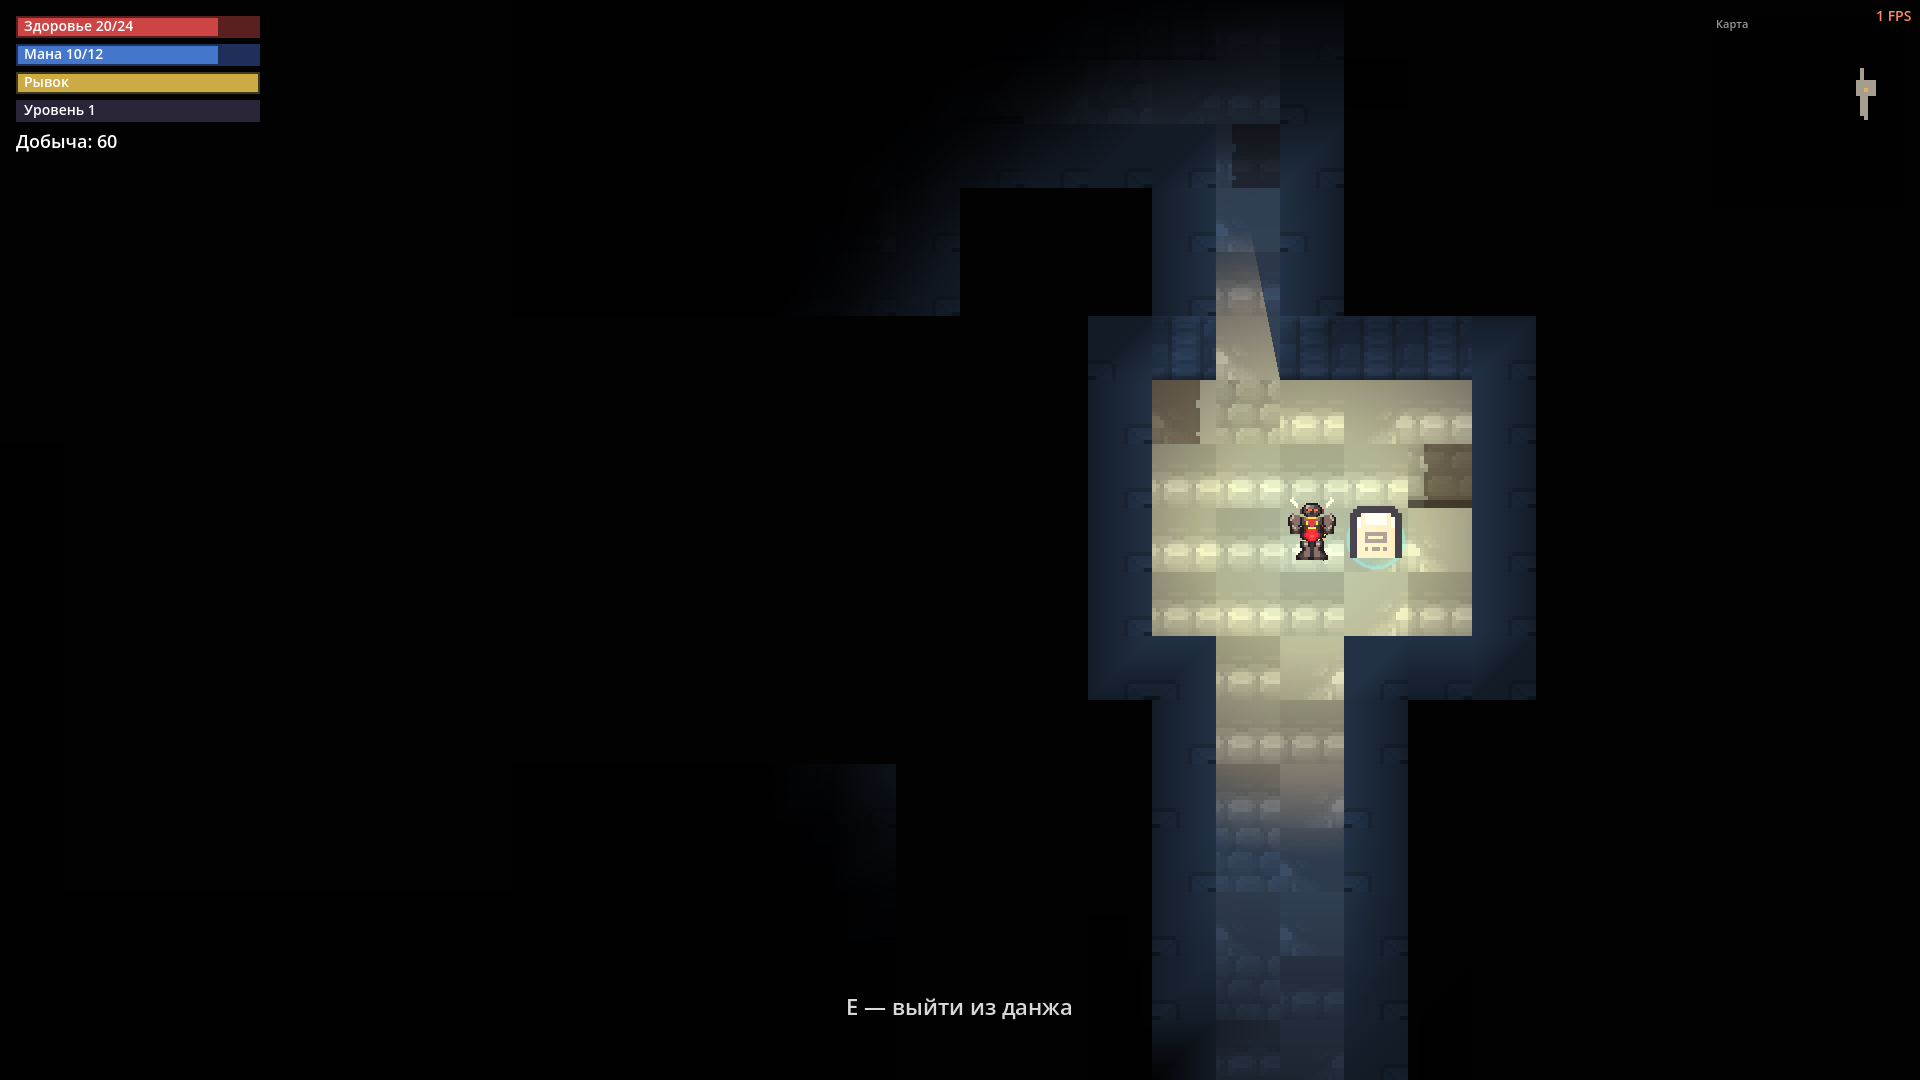
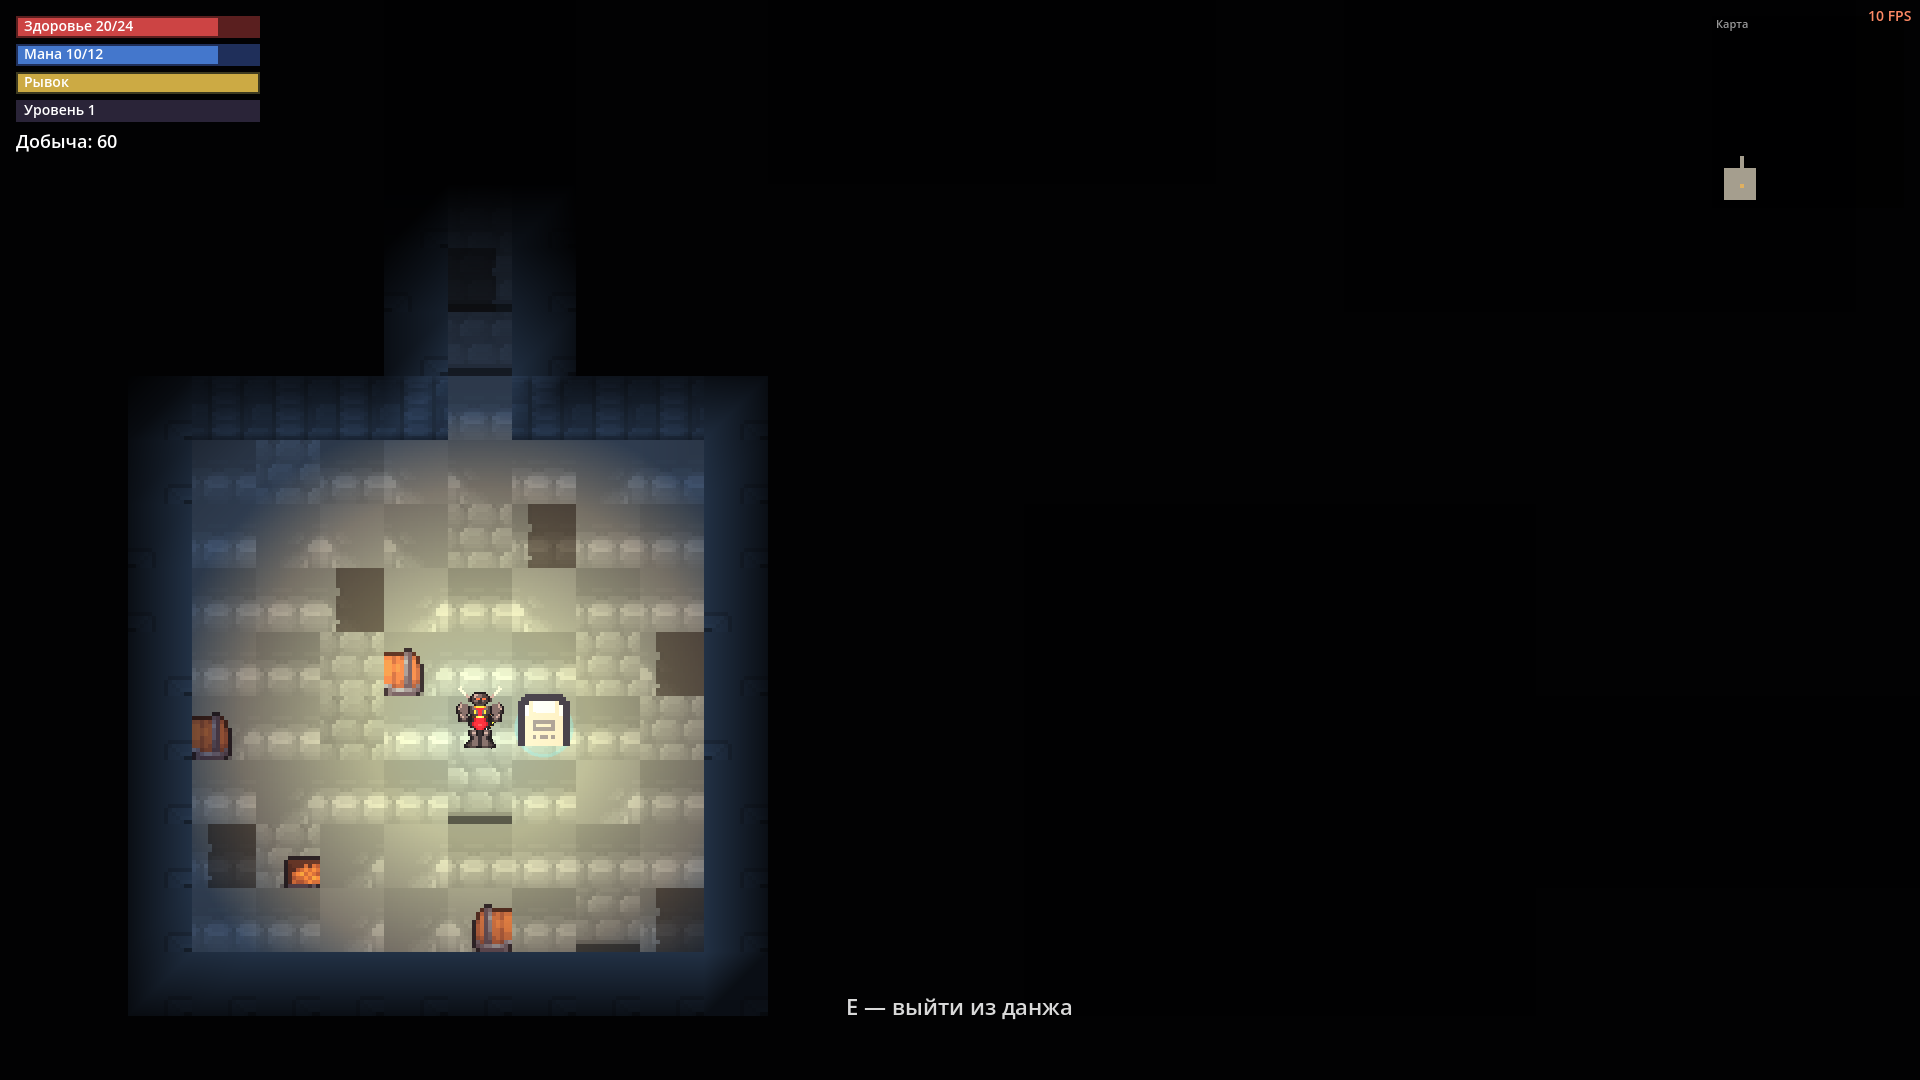
v1.42.2: правки приёмки этапа 4 — глухой туман, вода под героем, чистый пол, свет огненных монстров
Фидбек заказчика: большой радиус просвечивает уровень данжа (справа
видно сквозь тень); текстуры воды должны быть под персонажем; под
сундуком текстура бочки (или предмет, или пол); факелы делают вид что
горят, но света не дают.

1. Туман войны: «память» только для изученного ПОЛА и почти глухая
   (0.45 → 0.72); стены вне поля зрения — НЕПРОЗРАЧНЫЕ (сквозь тень
   соседние комнаты не видно); радиус расплывания 9 → 8 тайлов.
2. Слой света данжа (вода/пламя) и рунные круги перенесены ДО героя
   в порядке сцены — рисуются под персонажем, не поверх.
3. «Бочка под сундуком» — тайл пола пака (6,1) с запечённым пропсом;
   полы перерезаны из чистой кладки (12,1)/(5,1)/(9,2).
4. Огненные монстры (cinder, висп) получили настоящий свет
   (enemies.json → light: color/radius/energy, тени от стен) —
   горящий спрайт больше не «фальшивит».

Тесты: +проверки (память только пол, стены глухие, свет монстров в
конфиге и на узле врага), полный прогон зелёный; headless dungeon —
0 SCRIPT ERROR. Скриншоты: shot_dungeon2_demon.png (свет через проём
обрывается стеной), bandit (факелы, чистый пол), crystal.

Следующий шаг: повторная приёмка этапа 4; далее — многоуровневость
данжей (№113–115) отдельным проходом.

diff --git a/tools/make_dungeon2.py b/tools/make_dungeon2.py
@@ -148,10 +148,12 @@ def cut_pack():
         saved.append("props/" + name)
 
     # пол: плиты пака (тёмные у пака -> нормализация в светлый серый;
-    # финальный тон даст тинт биома). Три характера: живой/плоский/плоский-2
-    put("d2_floor_a", normalize_gray(tile(wf, 6, 1), 0.80))
+    # финальный тон даст тинт биома). v1.42.2: тайлы БЕЗ запечённых
+    # пропсов — в (6,1) пака лежит «бочка/скелет», её принимали за
+    # предмет под сундуком. Только чистая кладка.
+    put("d2_floor_a", normalize_gray(tile(wf, 12, 1), 0.80))
     put("d2_floor_b", normalize_gray(tile(wf, 5, 1), 0.80))
-    put("d2_floor_c", normalize_gray(tile(wf, 6, 2), 0.80))
+    put("d2_floor_c", normalize_gray(tile(wf, 9, 2), 0.80))
     put("d2_floor_crack", normalize_gray(tile(wf, 6, 3), 0.74))
 
     # стены: верх — блоки с кладкой; грань — кирпич пака + кромка/низ свои

diff --git a/CHANGELOG_E2.md b/CHANGELOG_E2.md
@@ -1201,6 +1201,41 @@ README.md.**
 нижнем углу города) и посмотреть; затем этап 2 «Глобальная карта v2»
 программы «Мир v2» — НОВЫЙ чат.**
 
+## Правки приёмки v1.42.2 (2026-11-02, тем же чатом) — туман глухой, вода под героем, чистый пол, светящиеся монстры
+
+Фидбек заказчика по скриншоту: «большой радиус от персонажа просвечивает
+уровень данжа (справа видно сквозь тень); текстуры воды должны быть под
+персонажем; под сундуком текстура бочки — или предмет или пол; факелы
+делают вид что горят, но света нет». Сделано:
+
+1. **Сквозь тень больше не видно**: «память» тумана войны — только для
+   изученного ПОЛА и почти глухая (0.45 → 0.72); стены вне поля зрения —
+   НЕПРОЗРАЧНАЯ тьма (раньше стены с памятью просвечивали соседние
+   комнаты). Радиус расплывания 9 → 8 тайлов — круг героя теснее.
+2. **Вода/пламя/руны — ПОД героем**: слой света данжа перенесён до героя
+   в порядке сцены (z без подъёма) — вода рисуется под ногами, а не
+   поверх персонажа; рунные круги — тоже под героем.
+3. **«Бочка под сундуком» — тайл пола пака с запечённым пропсом**:
+   тайл (6,1) листа стен/полов пака содержит нарисованную «бочку/
+   скелет». Полы перерезаны из чистой кладки (12,1)/(5,1)/(9,2) —
+   под сундуком теперь просто пол.
+4. **«Факелы горят, но света нет»** — на скриншоте это были огненные
+   монстры (cinder/висп): горящий спрайт без света выглядел фальшиво.
+   Монстрам с огнём/магией добавлен свет (enemies.json → "light":
+   color/radius/energy) — cinder и висп теперь реально подсвечивают
+   пространство, тени от стен включены.
+
+Тесты: +проверки (память только пол, стены глухие, свет монстров в
+конфиге и на узле врага); полный прогон зелёный, headless dungeon —
+0 SCRIPT ERROR. Скриншоты обновлены: shot_dungeon2_demon.png (свет через
+проём упирается в стены, за ними тьма), shot_dungeon2_bandit.png
+(факелы, чистый пол), shot_dungeon2_crystal.png.
+
+**Файлы: scripts/dungeon_fog.gd, dungeon.gd, dungeon_lights.gd,
+enemy.gd, data/enemies.json, tools/make_dungeon2.py (+перегенерация
+d2_floor_*), tests/test_dungeon2.gd, tests/run_all.gd,
+tools/shot_dungeon2_*.png, data/version.json, README.md.**
+
 ## Правки приёмки v1.42.1 (2026-11-02, тем же чатом) — свет упирается в стены, факелы гуманоидам, лужи-вода
 
 Фидбек заказчика по скриншоту: «синие квадраты, герой проходит сквозь;

diff --git a/PLAN.md b/PLAN.md
@@ -685,9 +685,11 @@ data/city.json (colors.water_tune). Скриншоты: tools/shot_water.png.
    Тюнинг — data/world.json → npc_city. Тесты: tests/test_npc_cities.gd
    (+27 проверок) + tests/smoke_npc.gd (гостевой цикл).
 4. **Данжи v2** — СВЕТ/МАТЕРИАЛЫ ВЫПОЛНЕНЫ (v1.42.0, 2026-11-02) + ПРАВКИ
-   ПРИЁМКИ v1.42.1 (свет упирается в стены — тени PointLight2D; факел на
-   стене вместо жаровни-«бочки»; факелы только биомам с живыми
-   гуманоидами biomes.humanoids; лужи — органические пятна воды): материалы по референсам из пака заказчика («ассеты
+   ПРИЁМКИ v1.42.1–v1.42.2 (свет упирается в стены — тени PointLight2D;
+   факел на стене; факелы только гуманоидам biomes.humanoids; лужи —
+   органические пятна воды ПОД героем; туман: стены вне поля зрения
+   глухие, память только для пола 0.72; чистые тайлы пола без пропсов
+   пака; огненные монстры (cinder/висп) подсвечивают пространство): материалы по референсам из пака заказчика («ассеты
    подземельев», tools/make_dungeon2.py): плиты пола, кирпичные грани/капы
    стен; свет «тёплый фонарь + холодные пятна» — жаровни с живым огнём и
    холодные бирюзовые лужи; «пепельная порча» комнат (потёки/трещины/

diff --git a/СЛЕДУЮЩИЙ-ШАГ.md b/СЛЕДУЮЩИЙ-ШАГ.md
@@ -3,8 +3,15 @@
 > Этот файл — первое место, куда смотреть: текущий статус и с чего начать
 > новый чат. Ссылка на него есть в самом верху `README.md`.
 
-## Текущий статус (2026-11-02, «Мир v2» этап 4 «Данжи v2» — правки приёмки v1.42.1 готовы, ждёт приёмки)
+## Текущий статус (2026-11-02, «Мир v2» этап 4 «Данжи v2» — правки приёмки v1.42.1–v1.42.2, ждёт приёмки)
 
+- **v1.42.2 — второй круг правок этапа 4 (фидбек: уровень просвечивает
+  сквозь тень, вода над героем, «бочка под сундуком», горят без света):**
+  туман — стены вне поля зрения НЕПРОЗРАЧНЫЕ, «память» только изученный
+  пол и почти глухая (0.72), радиус 8 тайлов; вода/пламя/руны рисуются
+  ПОД героем; полы перерезаны из тайлов пака без запечённых пропсов
+  («бочка» была в тайле пола); огненные монстры (cinder, висп) теперь
+  реально светятся (enemies.json → light).
 - **v1.42.1 — правки приёмки этапа 4 (фидбек: синие квадраты-лужи,
   жаровня-«бочка», свет сквозь стены, факелы только живым):** свет героя и
   факелов теперь БРОСАЕТ ТЕНЬ ОТ СТЕН и не просвечивает за них (туман

diff --git a/README.md b/README.md
@@ -1,4 +1,4 @@
-# Пепел и Мана — v1.42.1
+# Пепел и Мана — v1.42.2
 
 [![Тесты](https://github.com/SDVGames-Studio/pepel-i-mana/actions/workflows/tests.yml/badge.svg)](https://github.com/SDVGames-Studio/pepel-i-mana/actions/workflows/tests.yml)
 
